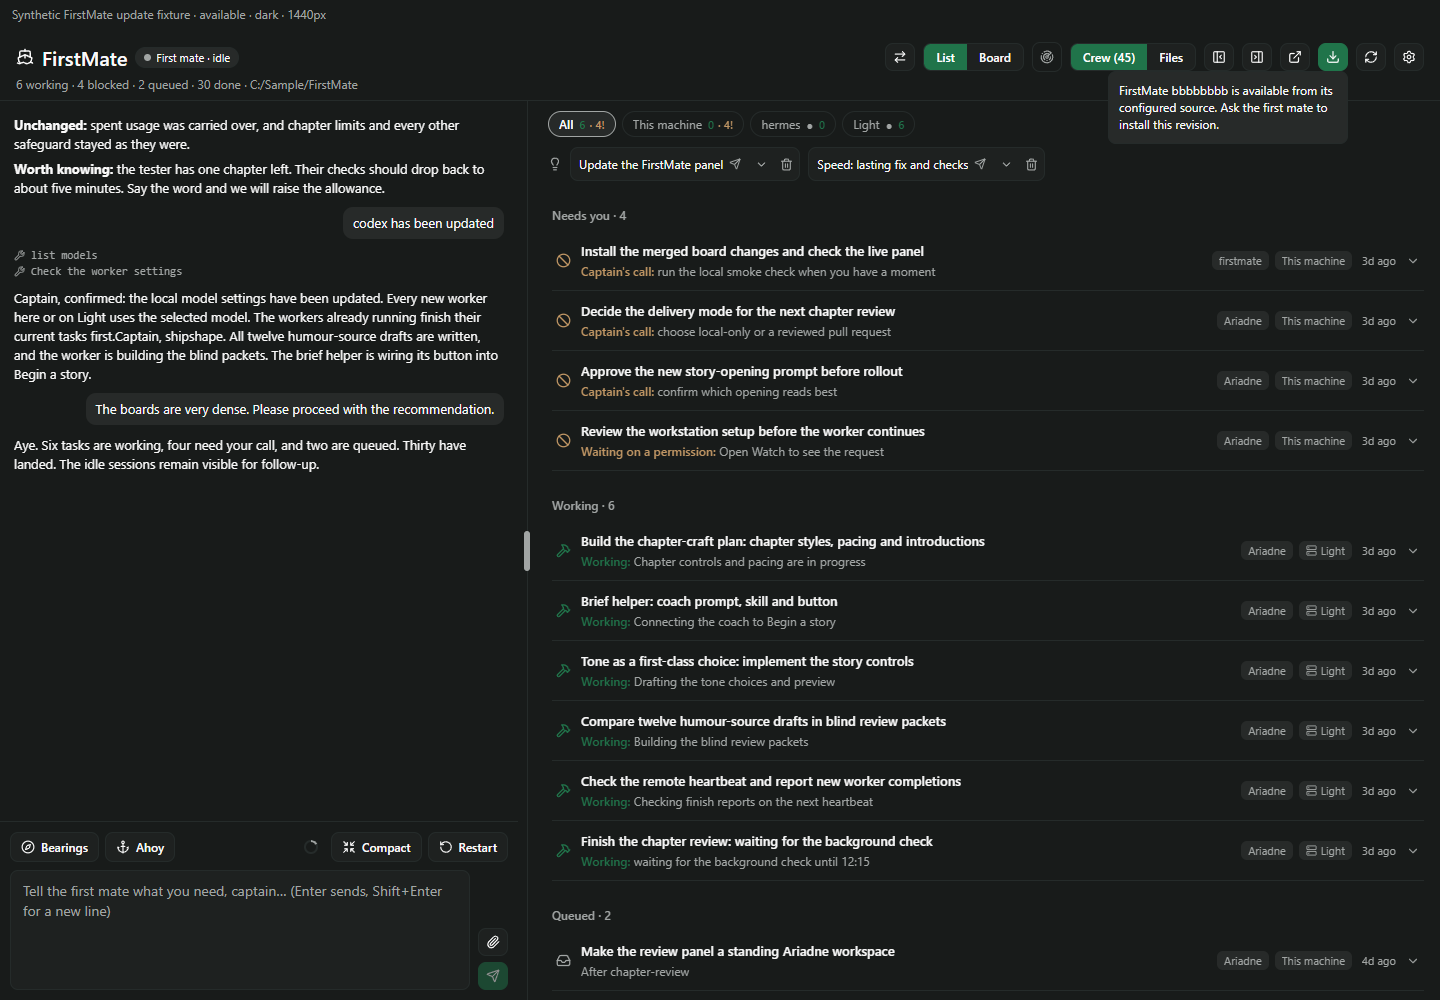
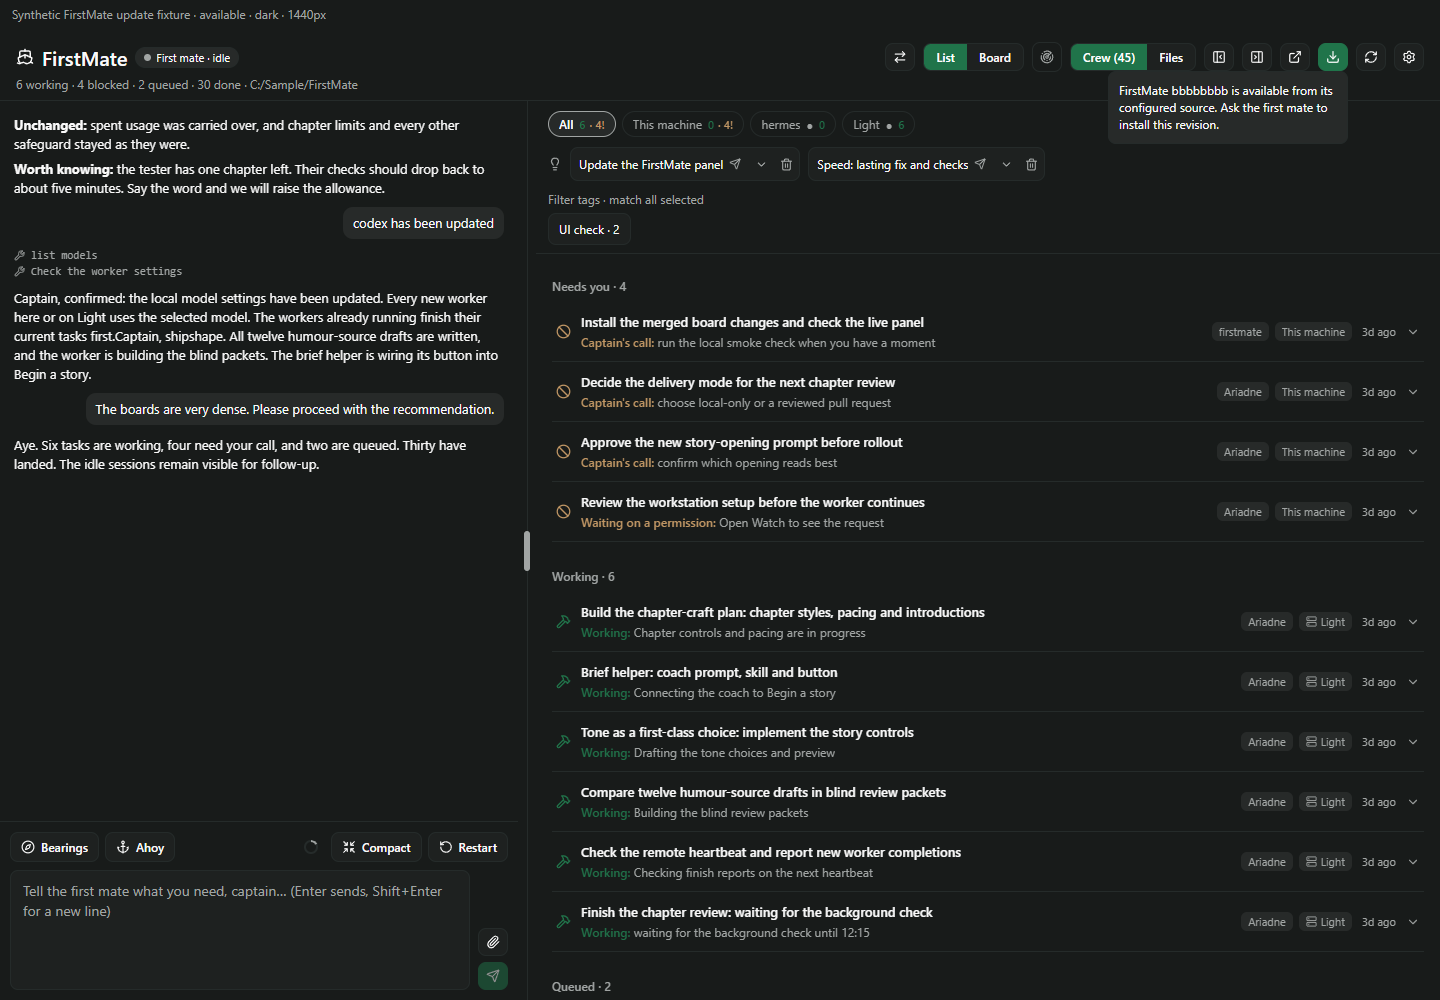
Verify update controls with merged item tags

diff --git a/docs/firstmate-update/panel.jsx b/docs/firstmate-update/panel.jsx
@@ -3,6 +3,11 @@ import { createRoot } from "react-dom/client";
 import { QueryClient, QueryClientProvider } from "@tanstack/react-query";
 import { FleetSurface, bindSettingsOpener } from "../../client/fleet";
 import { theme as dark } from "../board-list/theme";
+import { fleet } from "../board-list/fixtures";
+
+fleet.cards[0].tags = ["UI check"];
+fleet.cards[1].tags = ["UI check"];
+window.fixtureTagTitles = fleet.cards.slice(0, 3).map((card) => card.title);
 
 const params = new URLSearchParams(location.search);
 const light = params.get("theme") === "light";

diff --git a/server/update.ts b/server/update.ts
@@ -94,8 +94,8 @@ export class UpdateService {
     this.available = {
       token,
       text: await message(TEMPLATES.updateRequest, {
-          source: JSON.stringify(running.description),
-          identity: running.identity,
+        source: JSON.stringify(running.description),
+        identity: running.identity,
         running: running.revision,
         latest: label,
         immutable: latest.immutable,

diff --git a/docs/firstmate-update/README.md b/docs/firstmate-update/README.md
@@ -50,8 +50,13 @@ The full repository suite also checks packaging/import boundaries and all existi
 The browser harness mounts the real `FleetSurface`, `UpdateButton`, tooltip and `useMateSender` with
 synthetic host RPCs. It asserts all status states, disabled keyboard activation, tooltip viewport bounds,
 duplicate/shared-gate behavior, pending status and stale/current no-message behavior. It captures 20
-labelled screenshots at **1440×1000** and **390×844**, in light/dark themes; no live daemon is used.
+labelled status screenshots at **1440×1000** and **390×844**, in light/dark themes; no live daemon is used.
+After rebasing onto `62ee750` (merged item-tags PR14), eight additional captures verify selected tags
+across List/Board, the merged settings contract, and a subsequent update request bringing the narrow
+chat into view. The selected tag remains intact while update delivery uses its own shared send gate.
 Initial failed evidence is retained in `failed-evidence.txt`, `failed-render.txt` and `failed-0.png`.
+The focused Board tab's existing tooltip required Escape before clicking a control on the next narrow
+header row; that captured diagnosis is retained in `failed-tags-tooltip.png` and `failed-tags-tooltip.txt`.
 
 ```sh
 npm ci
@@ -71,6 +76,8 @@ Browser layout is covered; native iOS/Android require a device check.
 | Current | [image](desktop-light-current.png) | [image](desktop-dark-current.png) | [image](narrow-light-current.png) | [image](narrow-dark-current.png) |
 | Unavailable | [image](desktop-light-unavailable.png) | [image](desktop-dark-unavailable.png) | [image](narrow-light-unavailable.png) | [image](narrow-dark-unavailable.png) |
 | No mate | [image](desktop-light-no-mate.png) | [image](desktop-dark-no-mate.png) | [image](narrow-light-no-mate.png) | [image](narrow-dark-no-mate.png) |
+| Tag-filtered List | [image](desktop-light-tags-list.png) | [image](desktop-dark-tags-list.png) | [image](narrow-light-tags-list.png) | [image](narrow-dark-tags-list.png) |
+| Tag-filtered Board | [image](desktop-light-tags-board.png) | [image](desktop-dark-tags-board.png) | [image](narrow-light-tags-board.png) | [image](narrow-dark-tags-board.png) |
 
 Self-review checked the complete diff for installation calls, writable source operations, hard-coded
 upstreams, false-current paths, delivery/lifecycle races, duplicate sends and header overlap. Existing
